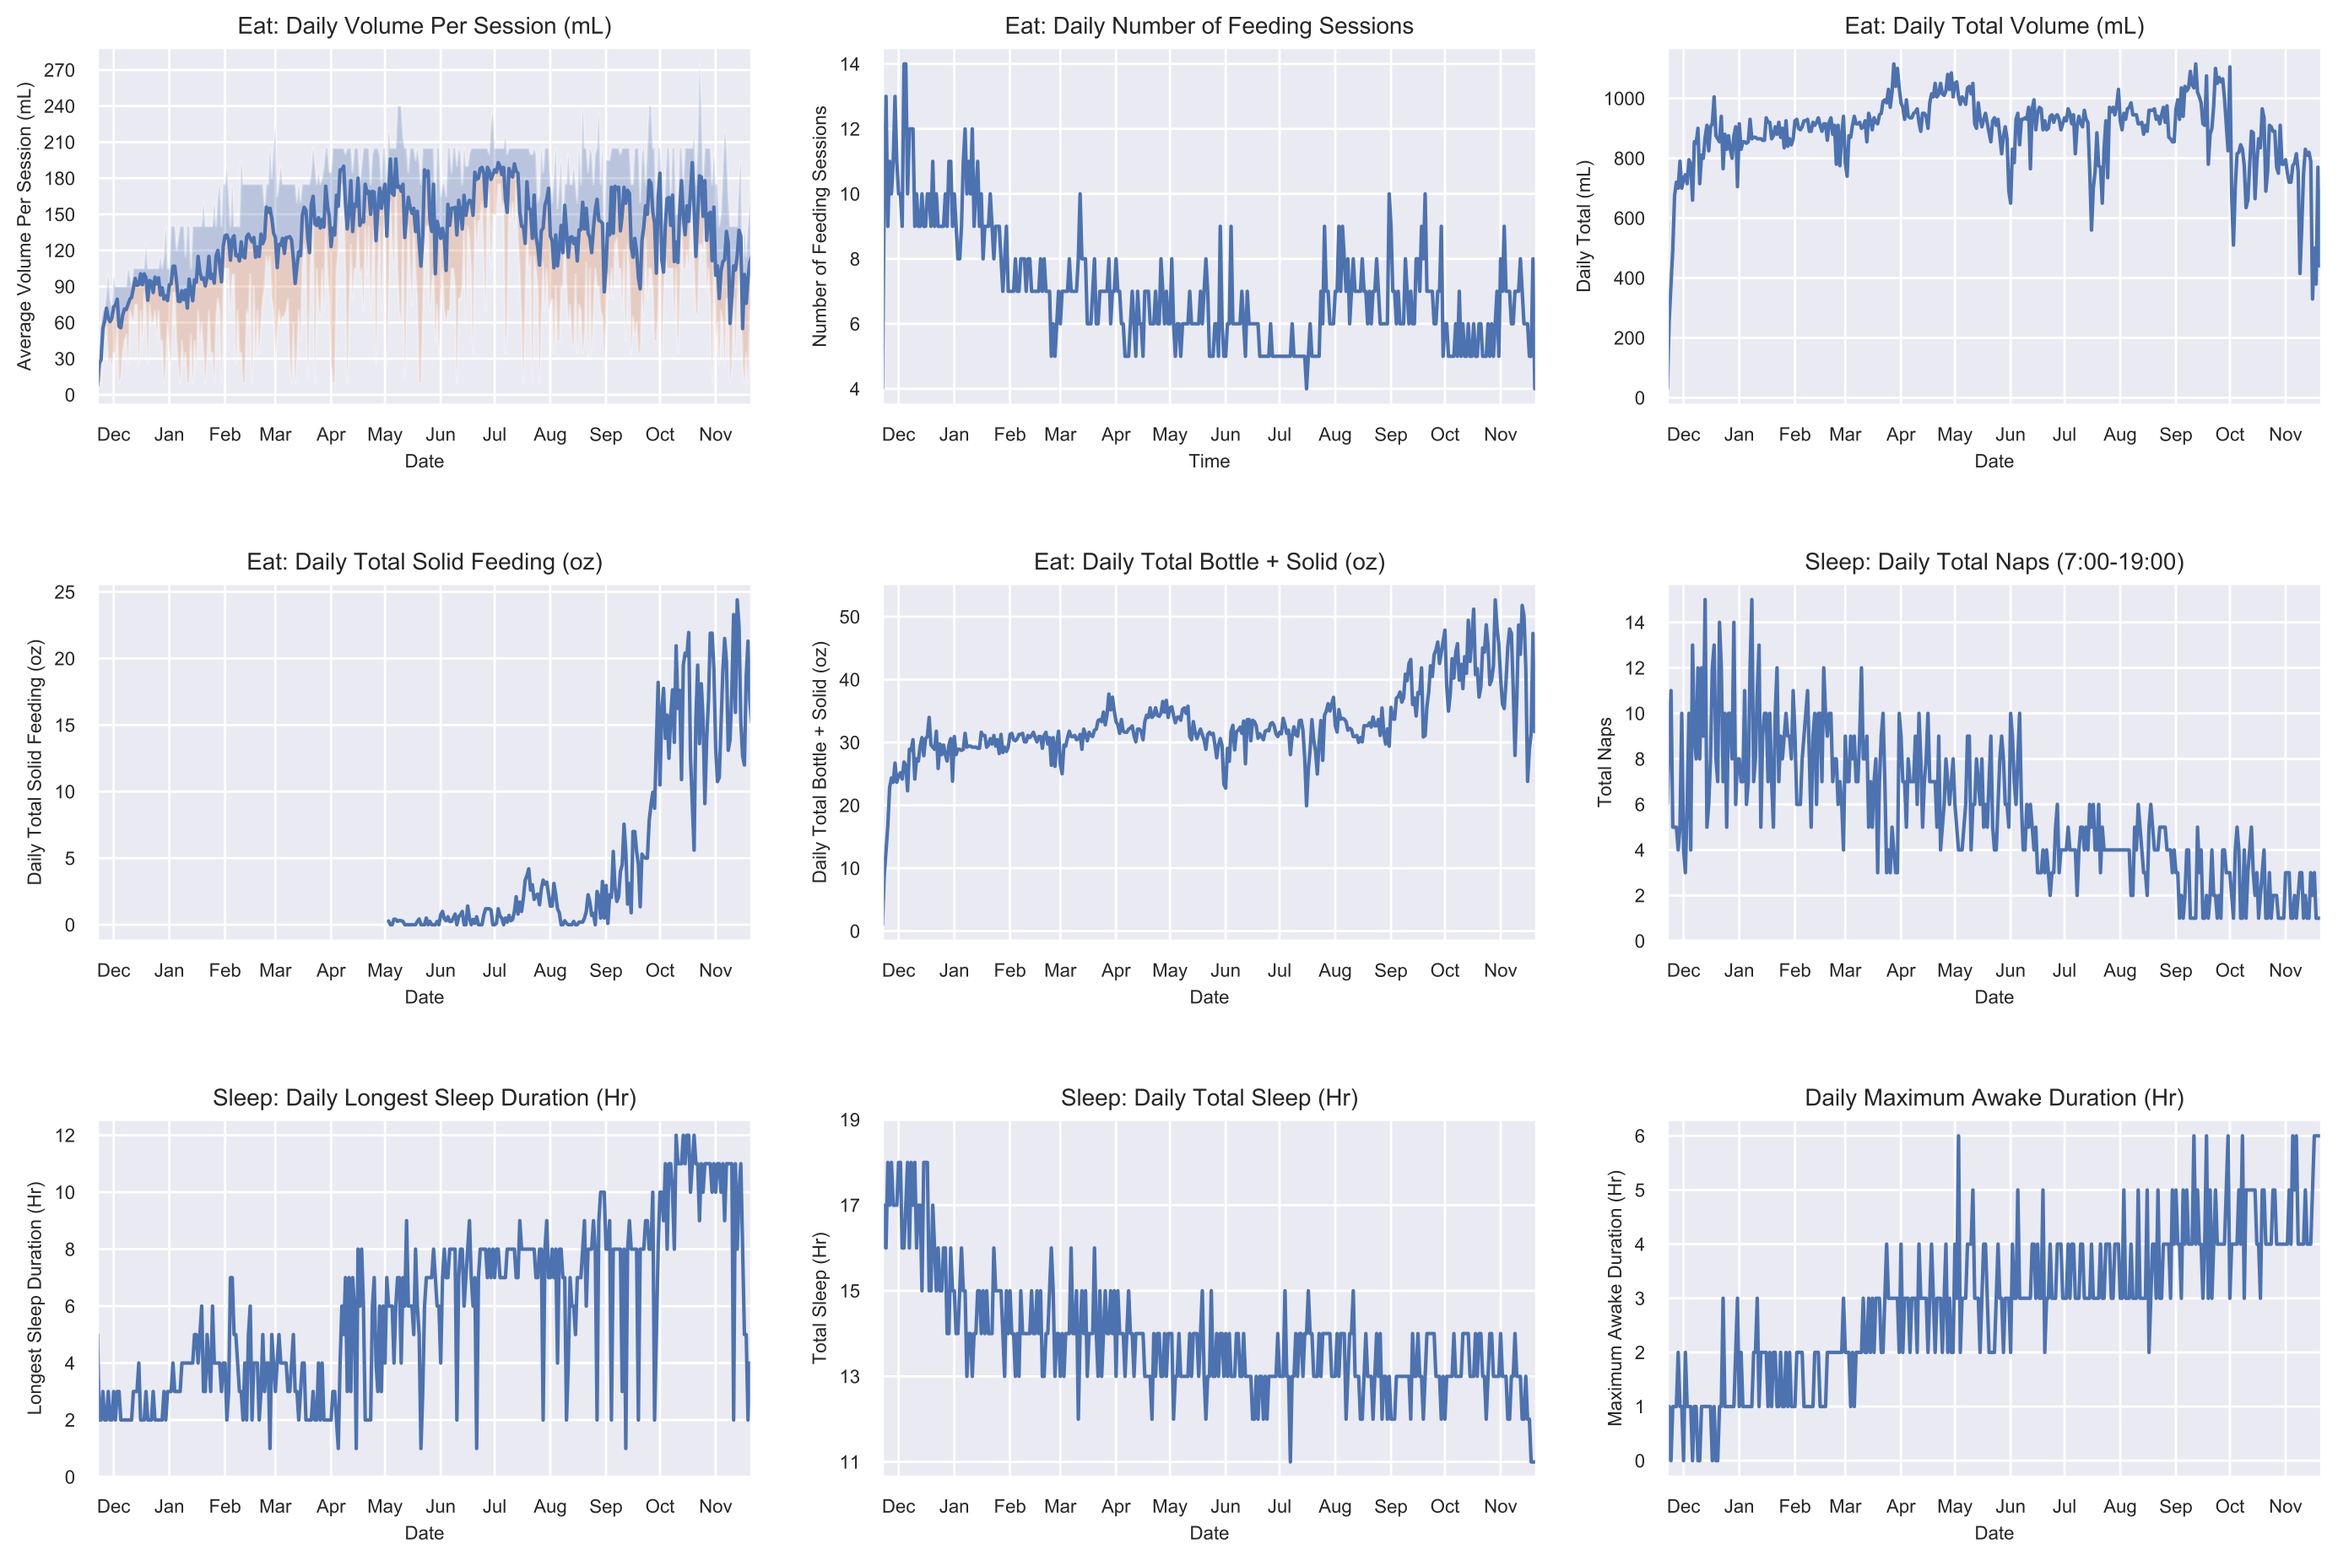
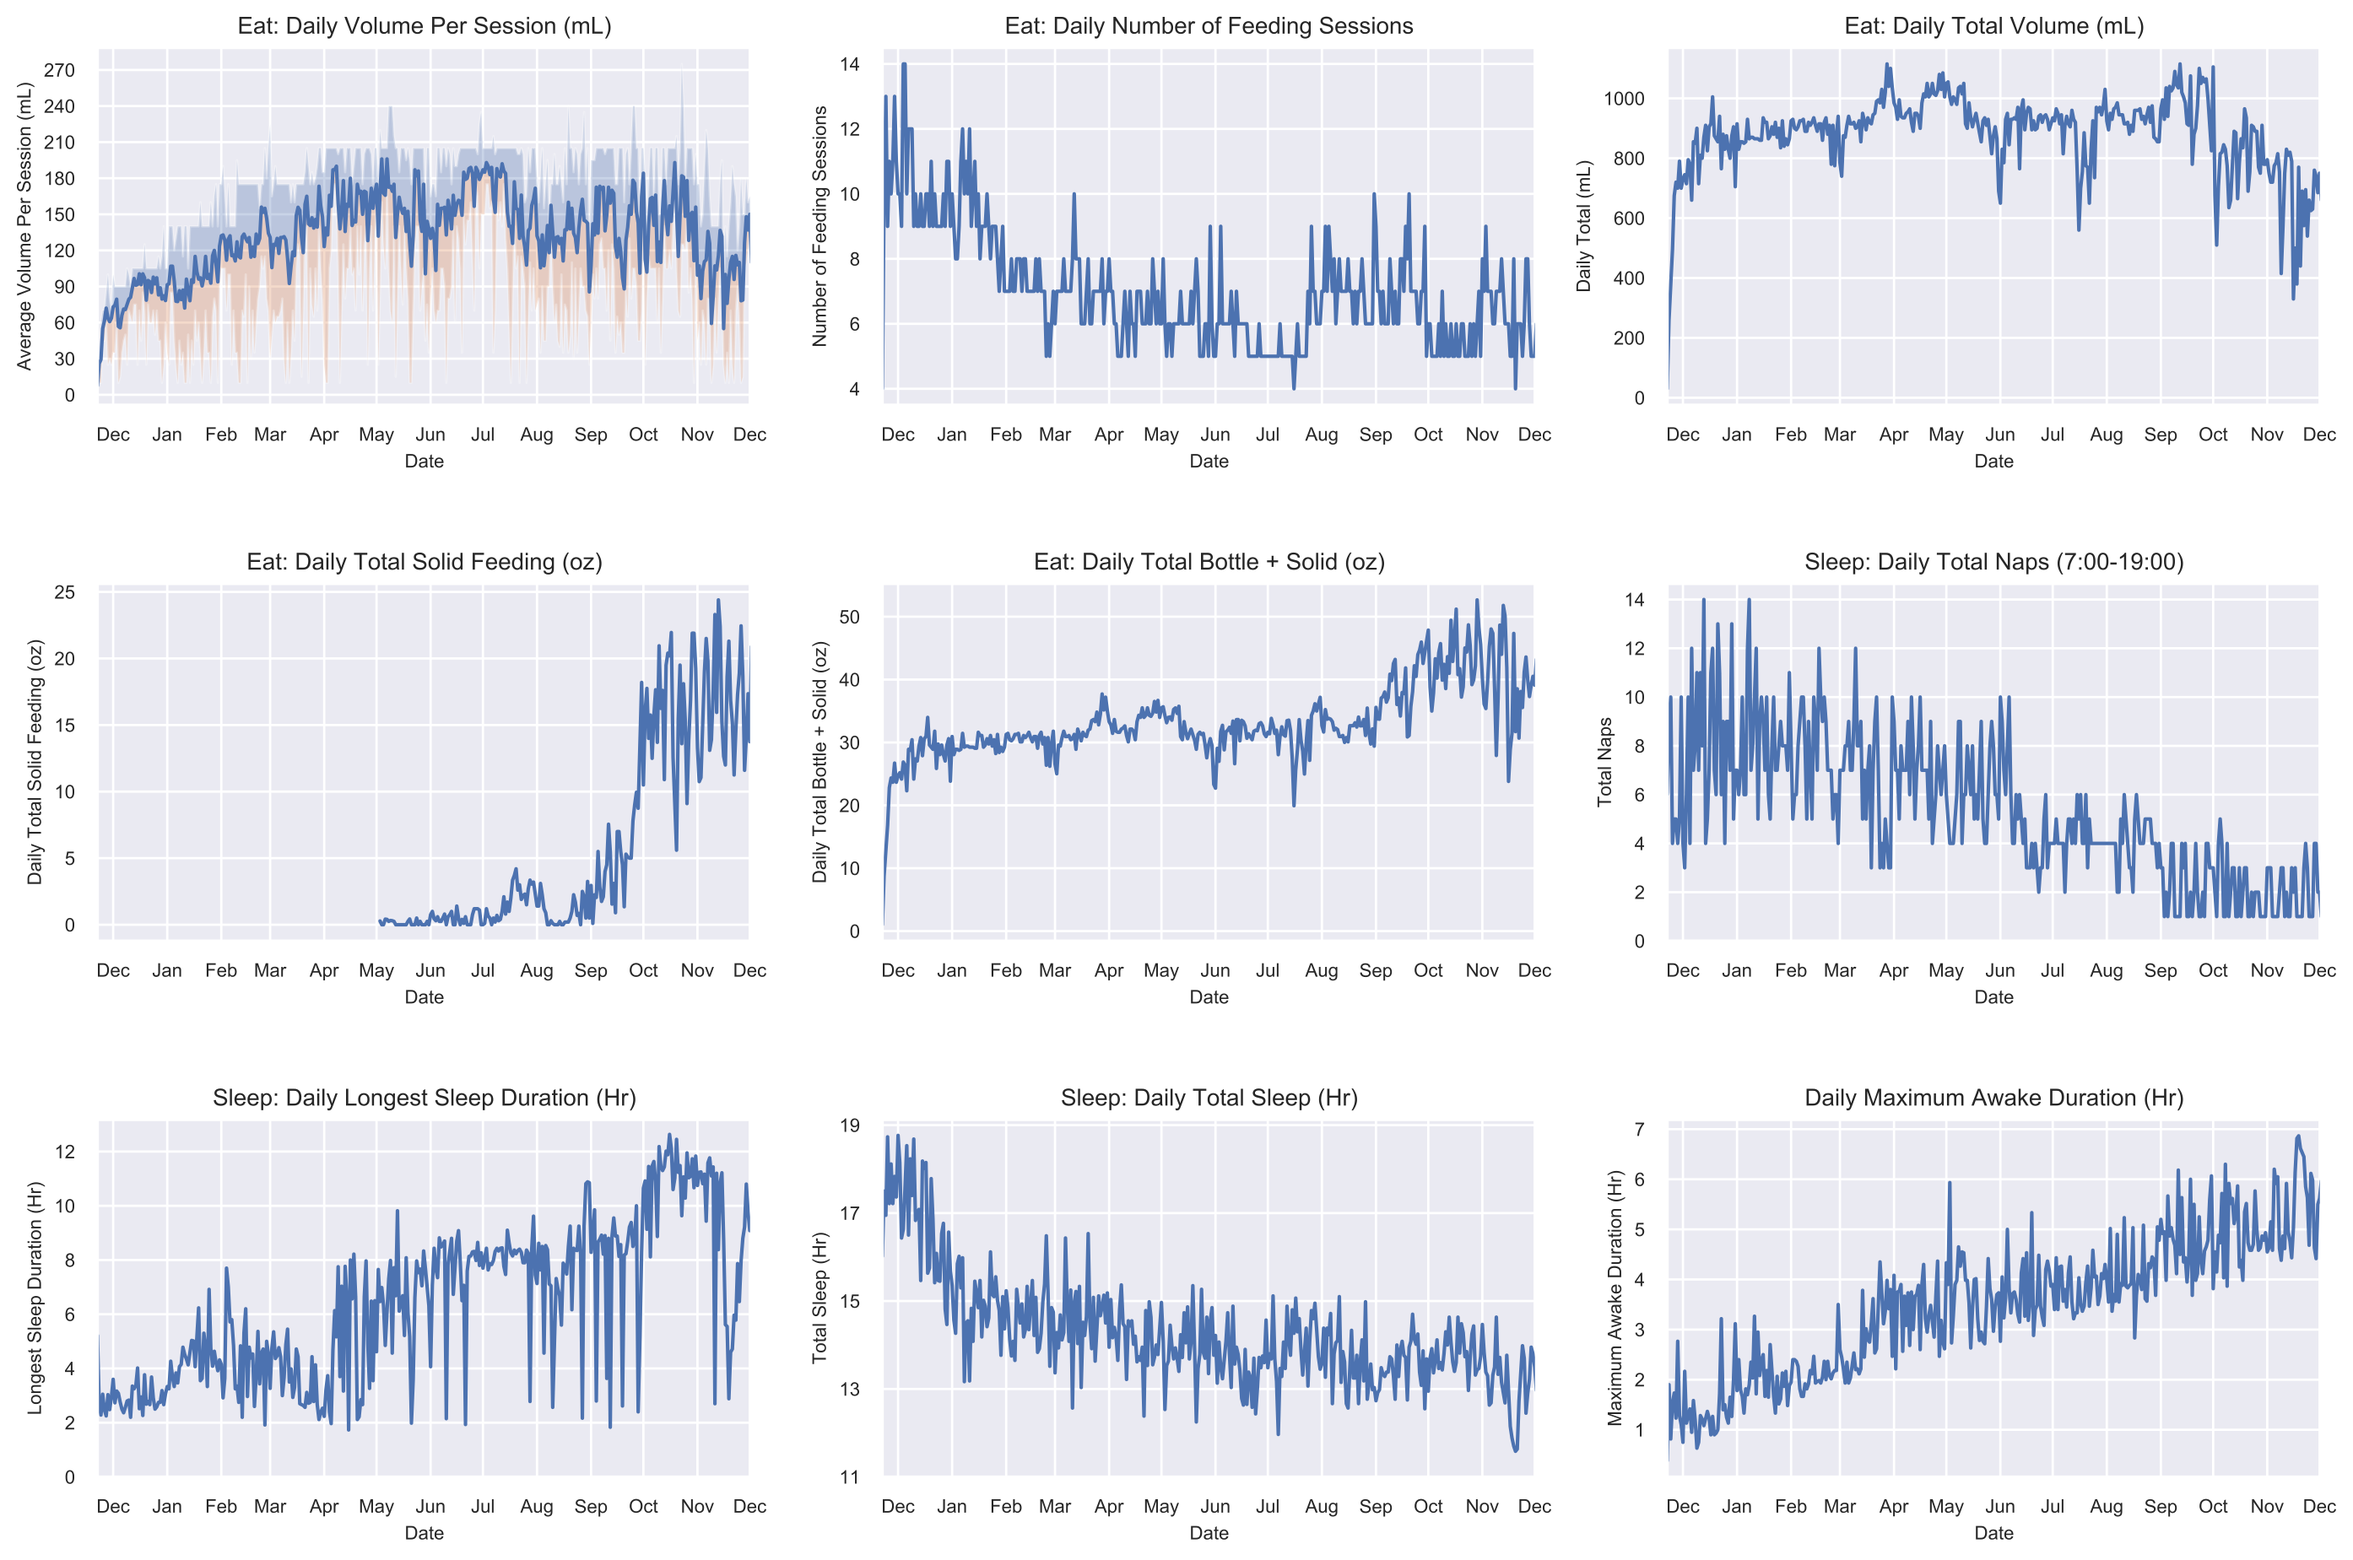
Added unit test coverage report integration to CodeClimate. Refactored several scripts. Updated Readme.

diff --git a/agenoria/plot_sleep_feeding_charts.py b/agenoria/plot_sleep_feeding_charts.py
@@ -44,68 +44,55 @@ def parse_glow_sleep_data(file_name):
     sleep_data_list = []
     offset = 0
 
+    # For some reason raw sleep data is not sorted by time
+    data_sleep = data_sleep.sort_values(['Begin time'], ascending=False)
+
+    # Label each daytime nap session
+    nap_index = (data_sleep['Begin time'].dt.hour > 7) & (
+        data_sleep['Begin time'].dt.hour < 19)
+    data_sleep.loc[nap_index, 'daytime_nap'] = 1
+
+    # Get duration for each row, then convert to hours
+    data_sleep['duration'] = data_sleep['End time'] - data_sleep['Begin time']
+    data_sleep['duration'] = data_sleep['duration'] / np.timedelta64(1, 'h')
+
+    # Find the index of session that extend into the next day
+    index = data_sleep['End time'].dt.normalize(
+    ) > data_sleep['Begin time'].dt.normalize()
+
+    # Compute the offset duration to be plotted the next day
+    sleep_offset = data_sleep.loc[index, 'End time']
+    data_sleep.loc[index, 'offset'] = sleep_offset.dt.hour + \
+        sleep_offset.dt.minute / 60
+
     for current_date in pd.date_range(start_date, end_date):
         # Get all entires on this date
         rows_on_date = data_sleep[data_sleep['Date'].isin([current_date])]
 
-        # For some reason raw sleep data is not sorted by time
-        rows_on_date = rows_on_date.sort_values(
-            ['Begin time'], ascending=False)
-
         # Compute number of nap sessions
-        nap_sessions_on_date = 0
+        nap_sessions_on_date = rows_on_date['daytime_nap'].count()
 
-        for index, sleep_session in rows_on_date.iterrows():
-            timestamp = sleep_session['Begin time']
-            time7am = timestamp.replace(
-                hour=7, minute=0, second=0, microsecond=0)
-            time7pm = timestamp.replace(
-                hour=19, minute=0, second=0, microsecond=0)
-            if (timestamp > time7am) and (timestamp < time7pm):
-                nap_sessions_on_date += 1
-
-        # Total sleep
-
-        # Get duration for each row, then sum
-        elapsed_time = rows_on_date['End time'] - \
-            rows_on_date['Begin time']
-        total_sleep_duration = elapsed_time.sum().total_seconds()
+        # Get total sleep duration
+        total_sleep_duration = rows_on_date['duration'].sum()
 
         # Add offset from previous day
         total_sleep_duration += offset
 
-        # Get the first row in the block
-        start_last = rows_on_date['Begin time'].iloc[0]
-        end_last = rows_on_date['End time'].iloc[0]
-
-        # Catch session that extend past midnight
-        if(end_last.date() > start_last.date()):  # if extends to next day
-            midnight = end_last.replace(
-                hour=0, minute=0, second=0, microsecond=0)
-
-            # Subtract duration from today's total
-            offset = (end_last - midnight).total_seconds()
-            total_sleep_duration -= offset
-            # Keep the offset to add to tomorrow's total
-        else:
-            offset = 0
-
-        # Convert to hours
-        total_sleep_duration = total_sleep_duration // 3600
+        # Catch session that extend past midnight, subtract from duration
+        offset = rows_on_date['offset'].sum()
+        total_sleep_duration -= offset
 
         # Longest session
-        longest_session = elapsed_time.max().total_seconds() // 3600
-
-        # Longest awake duration
+        longest_session = rows_on_date['duration'].max()
 
         # Remove all sleep sessions less than two minutes
-        SLEEP_THRESHOLD = dt.timedelta(minutes=2)
-        sleep_filtered = rows_on_date[elapsed_time > SLEEP_THRESHOLD]
+        SLEEP_THRESHOLD = 0.0333333  # two minutes -> hours
+        filtered = rows_on_date[rows_on_date['duration'] > SLEEP_THRESHOLD]
 
-        # Compute awake time - begin (current time) -  end (next row)
-        end_time_shifted = sleep_filtered['End time'].shift(-1)
-        awake_duration = sleep_filtered['Begin time'] - end_time_shifted
-        max_awake_duration = awake_duration.max().total_seconds() // 3600
+        # Compute longest awake time - begin (current time) -  end (next row)
+        end_time_shifted = filtered['End time'].shift(-1)
+        awake_duration = filtered['Begin time'] - end_time_shifted
+        max_awake_duration = awake_duration.max() / np.timedelta64(1, 'h')
 
         # Put stats in a list
         sleep_data_list.append(

diff --git a/agenoria/plot_growth_charts.py b/agenoria/plot_growth_charts.py
@@ -123,10 +123,6 @@ def plot_weight_roc(plot_object):
 
 
 def plot_weight_age(plot_object):
-    # Plot growth curves
-    plot_growth_curves(config['growth_curve_weight'],
-                       config['gender'], 'Agemos', plot_object)
-
     # Import data
     hatch_data = parse_hatch_data(config['data_weight'], config['birthday'])
 
@@ -161,10 +157,6 @@ def plot_weight_percentile(plot_object):
 
 
 def plot_length_age(plot_object):
-    # Plot growth curves
-    plot_growth_curves(config['growth_curve_length'],
-                       config['gender'], 'Agemos', plot_object)
-
     # Import data
     data_height, _ = parse_glow_data(config['data_growth'], config['birthday'])
 
@@ -184,10 +176,6 @@ def plot_length_age(plot_object):
 
 
 def plot_head_circumference_age(plot_object):
-    # Plot growth curves
-    plot_growth_curves(config['growth_curve_head'],
-                       config['gender'], 'Agemos', plot_object)
-
     # Import data
     _, data_head = parse_glow_data(
         config['data_growth'], config['birthday'])
@@ -208,10 +196,6 @@ def plot_head_circumference_age(plot_object):
 
 
 def plot_weight_length(plot_object):
-    # Plot growth curves
-    plot_growth_curves(config['growth_curve_weight_length'],
-                       config['gender'], 'Length', plot_object)
-
     # Import data
     data_height, data_head = parse_glow_data(
         config['data_growth'], config['birthday'])
@@ -255,6 +239,9 @@ def plot_growth_charts(config_file):
     f, axarr = plt.subplots(2, 3)
 
     # Chart 1 - Weight / Age
+    plot_growth_curves(config['growth_curve_weight'],
+                       config['gender'], 'Agemos', axarr[0, 0])
+
     plot_weight_age(axarr[0, 0])
 
     # Chart 2 - Weight Percentile / Age
@@ -264,12 +251,18 @@ def plot_growth_charts(config_file):
     plot_weight_roc(axarr[0, 2])
 
     # Chart 4 - Length / Age
+    plot_growth_curves(config['growth_curve_length'],
+                       config['gender'], 'Agemos', axarr[1, 0])
     plot_length_age(axarr[1, 0])
 
     # Chart 5 - Head Circumference / Age
+    plot_growth_curves(config['growth_curve_head'],
+                       config['gender'], 'Agemos', axarr[1, 1])
     plot_head_circumference_age(axarr[1, 1])
 
     # Chart 6 - Weight / Length
+    plot_growth_curves(config['growth_curve_weight_length'],
+                       config['gender'], 'Length', axarr[1, 2])
     plot_weight_length(axarr[1, 2])
 
     # Export

diff --git a/agenoria/plot_diaper_charts.py b/agenoria/plot_diaper_charts.py
@@ -24,6 +24,24 @@ DEBUG_END_DATE = dt.datetime(2019, 9, 27, 0, 0, 0)
 config = []
 
 
+def count_pee_poop(row):
+    # Return variables
+    pee = 0
+    poop = 0
+
+    # Parse
+    key = row['In the diaper']
+    if (key == 'pee'):  # Pee only
+        pee += 1
+    elif (key == 'poo'):
+        poop += 1
+    elif (key == 'pee and poo'):
+        pee += 1
+        poop += 1
+
+    return pee, poop
+
+
 def parse_glow_diaper_data(file_name):
     # Import file
     data_diaper = pd.read_csv(file_name, parse_dates=['Diaper time'])
@@ -59,14 +77,9 @@ def parse_glow_diaper_data(file_name):
         total_pee_count = 0
         total_poop_count = 0
         for index, diaper_event in rows_on_date.iterrows():
-            key = diaper_event['In the diaper']
-            if (key == 'pee'):  # Pee only
-                total_pee_count += 1
-            elif (key == 'poo'):
-                total_poop_count += 1
-            else:
-                total_pee_count += 1
-                total_poop_count += 1
+            pee, poop = count_pee_poop(diaper_event)
+            total_pee_count += pee
+            total_poop_count += poop
 
         # Compute poop to total diaper change ratio
         poop_ratio = (total_poop_count / daily_total_diaper_count) * 100
@@ -187,7 +200,8 @@ def plot_diaper_charts(config_file):
     # Chart 6 - Diaper: Average Time Between Diaper Changes
     axarr[1, 2].plot(daily_diaper_data['date'],
                      daily_diaper_data['diaper_change_time_avg'])
-    axarr[1, 2].set_title('Diaper: Average Time Between Diaper Changes (Hours)')
+    axarr[1, 2].set_title(
+        'Diaper: Average Time Between Diaper Changes (Hours)')
     axarr[1, 2].set_ylabel('Average Time Between Diaper Changes (Hours)')
     axarr[1, 2].yaxis.set_ticks(np.arange(1, 5, 0.5))
     format_monthly_plot(axarr[1, 2], xlim_left, xlim_right)

diff --git a/README.md b/README.md
@@ -18,8 +18,11 @@
     <a href="https://codeclimate.com/github/jiuguangw/Agenoria">
     <img src="https://img.shields.io/codeclimate/maintainability/jiuguangw/Agenoria">
     </a>
-    <a href="https://codeclimate.com/github/jiuguangw/Agenoria">
+    <a href="https://codeclimate.com/github/jiuguangw/Agenoria/issues">
     <img src="https://img.shields.io/codeclimate/issues/jiuguangw/Agenoria">
+    </a>
+    <a href="https://codeclimate.com/github/jiuguangw/Agenoria/coverage">
+    <img src="https://img.shields.io/codeclimate/coverage/jiuguangw/Agenoria">
     </a>
   </p>
 </p>
